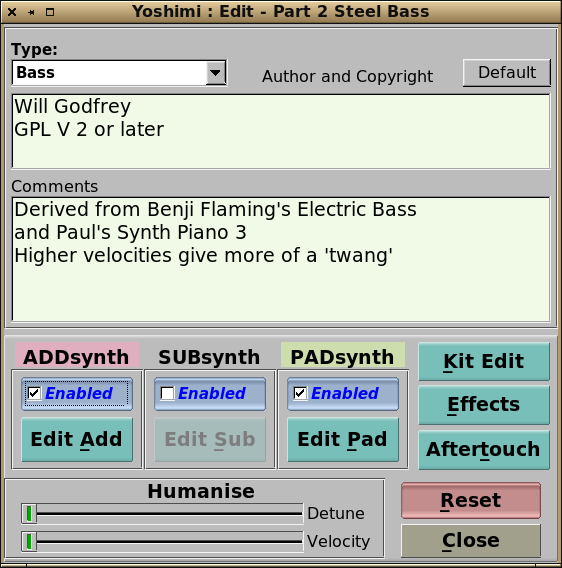
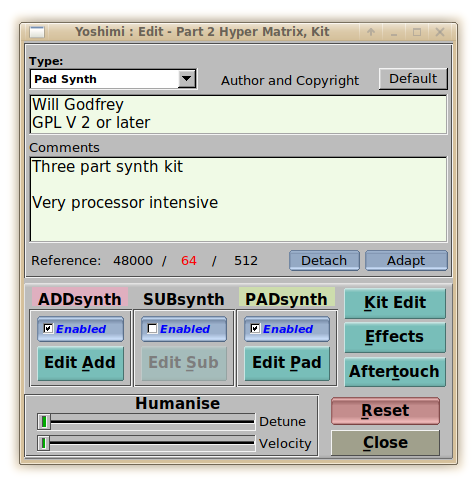
rate-adapt: documentation of the new feature and command endpoints
To summarise:
"DesignValues" -- An instrument can remember the processing setup
(sample rate, control rate and spectrum size) it was designed with.
This new feature is opt-in: an instrument without such a record will behave
differently, depending on the processing setup Yoshimi is currently running with.

So the behaviour before introduction of this new feature is retained by default.

This is the first step towards the ability to adapt to `DesignValues` and introduces
new logic for capturing, persisting and loading the intended processing parameters.

Five new command and CLI endpoints were defined;
The high-level actions can be triggered with two buttons in the Part-UI,
while full, fine-grained control is exposed via CLI.

diff --git a/doc/yoshimi_user_guide/part/part.html b/doc/yoshimi_user_guide/part/part.html
@@ -135,6 +135,15 @@
     <b>Reset</b> This button reverts the part's instrument to the default 'Simple Sound'.
     <br>
     Normally it doesn't change the other part level settings (at the bottom of the main window). However, if you hold down the <em>Ctrl</em> key when hitting the button you can clear the entire part. In either case there is a confirmation message before the action is performed.
+    <br><br>
+    <b>Reference setting</b> (aka. "design values") An instrument can remember the processing setup (sample rate, control rate and spectrum size) it was designed with. This is optional: an instrument without such a record will behave differently, depending on the processing setup Yoshimi is currently running with (this was the legacy behaviour before 2026). Enabling this feature will adjust various parameters in the Synth engine in order to compensate for a different processing setup (but it does not resample). The <em>Reference</em> field shows these reference values, with a dash for a value the instrument does not adapt to, or <em>uses current settings</em> if there are none. A value that differs from the present setting is shown as highlighted. The <em>Adapt</em> (button) takes over the present settings for the instrument, and <em>Detach</em> (shown only while the instrument adapts) removes them again. Both ask for confirmation when this may change the sound. The values are saved together with the instrument. Changing them while the part is sounding will silence its notes.
+    <br><br>
+    Individual design values can be manipulated from the CLI only:<br>
+    <tt>set design sample|control|spectral &lt;n&gt;</tt>,&nbsp;
+    as well as &nbsp;<tt>set design current</tt>&nbsp;
+    and &nbsp;<tt>set design independent</tt>&nbsp; for the two buttons.
+    <br><br>
+    <b>Please note:</b> this is work in progress. As of 10/2026 there is <em>no</em> actual adaptation implemented yet: an instrument only records its design values, and the sound is not changed by them. The actual adaptations will be added gradually in later versions, and will then take these recorded values into account.
     </p>
     <a href="#top" class="up">Back to top</a>
     <img src="../images/boundry.png" alt="divider" class="wideline">

diff --git a/dev_notes/Yoshimi Control Data/Sections/part.html b/dev_notes/Yoshimi Control Data/Sections/part.html
@@ -651,6 +651,71 @@
         <td>Load/Save default instrument copyright info</td>
       </tr>
       <tr>
+        <td>designSetToCurrent</td>
+        <td>0,1</td>
+        <td>225</td>
+        <td>0~63</td>
+        <td>255</td>
+        <td>255</td>
+        <td>255</td>
+        <td>255</td>
+        <td>255</td>
+        <td>255</td>
+        <td>Instrument design values: activate and capture settings<br>read: 1 if this would change the sound</td>
+      </tr>
+      <tr>
+        <td>designMarkIndependent</td>
+        <td>0,1</td>
+        <td>226</td>
+        <td>0~63</td>
+        <td>255</td>
+        <td>255</td>
+        <td>255</td>
+        <td>255</td>
+        <td>255</td>
+        <td>255</td>
+        <td>Disable adaptation to design values for this part<br>read: 1 if this would change the sound</td>
+      </tr>
+      <tr>
+        <td>designSampleRate</td>
+        <td>44100~192000</td>
+        <td>227</td>
+        <td>0~63</td>
+        <td>255</td>
+        <td>255</td>
+        <td>255</td>
+        <td>0~2</td>
+        <td>0,1</td>
+        <td>255</td>
+        <td>Instrument design value: sample rate<br>write: offset 1 = adapt, 0 = independent<br>read: parameter 0 = design value, 1 = adapting, 2 = current setting</td>
+      </tr>
+      <tr>
+        <td>designControlRate</td>
+        <td>16~8192</td>
+        <td>228</td>
+        <td>0~63</td>
+        <td>255</td>
+        <td>255</td>
+        <td>255</td>
+        <td>0~2</td>
+        <td>0,1</td>
+        <td>255</td>
+        <td>Instrument design value: control rate, power of two<br>offset and parameter as for designSampleRate</td>
+      </tr>
+      <tr>
+        <td>designSpectralBound</td>
+        <td>256~16384</td>
+        <td>229</td>
+        <td>0~63</td>
+        <td>255</td>
+        <td>255</td>
+        <td>255</td>
+        <td>0~2</td>
+        <td>0,1</td>
+        <td>255</td>
+        <td>Instrument design value: spectral bound, power of two<br>offset and parameter as for designSampleRate</td>
+      </tr>
+      <tr>
         <td></td>
         <td></td>
         <td></td>

diff --git a/src/Misc/ConfBuild.h b/src/Misc/ConfBuild.h
@@ -2,4 +2,4 @@
     ConfBuild.h
 */
 
-#define BUILD_NUMBER 2431
+#define BUILD_NUMBER 2432
